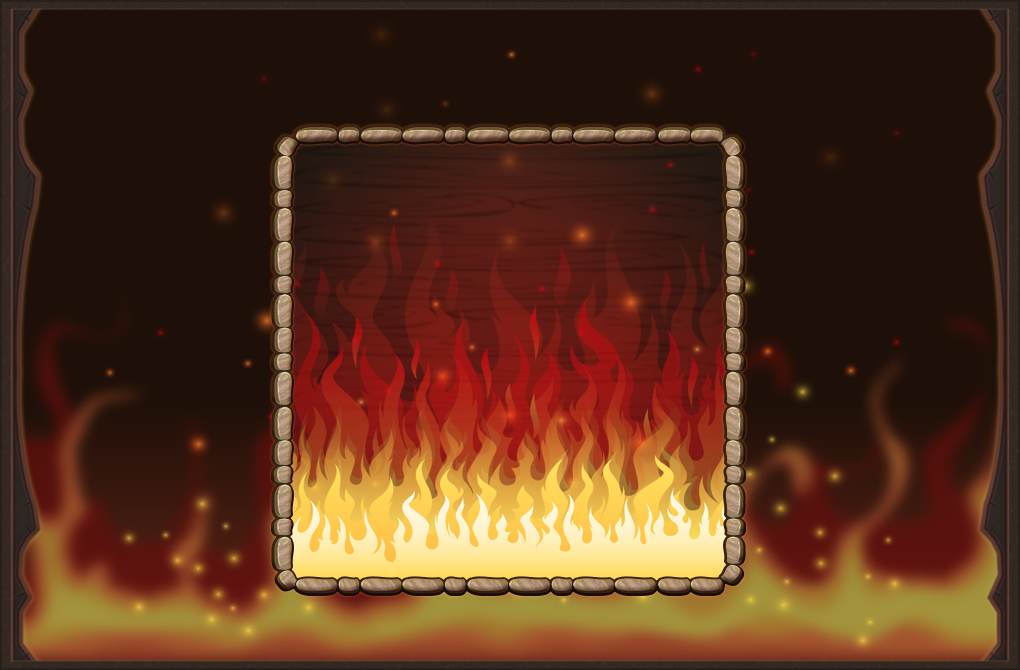
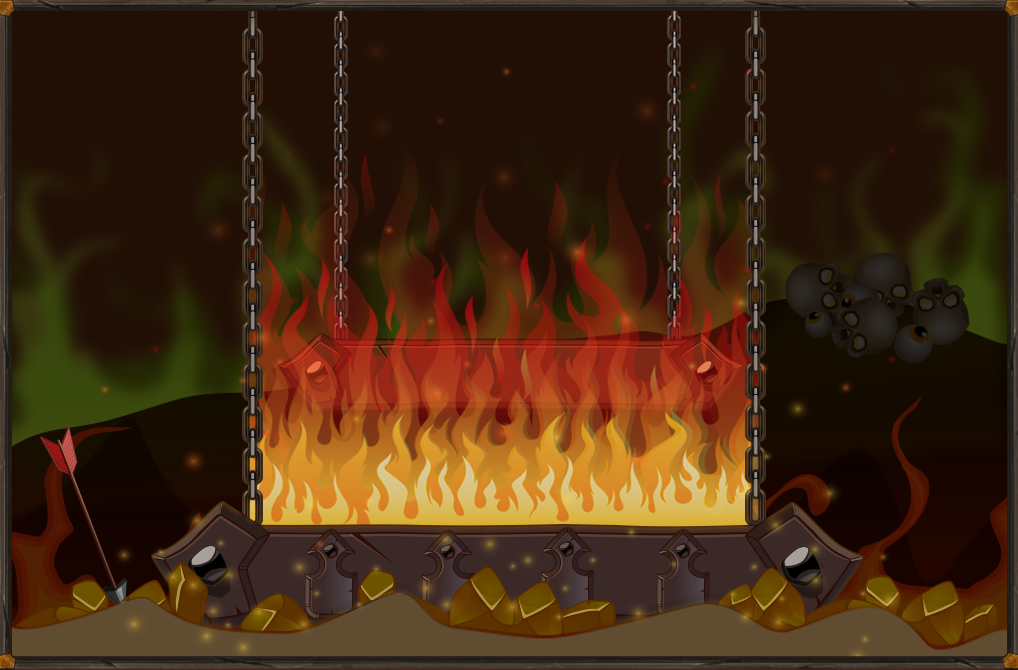
Improvements in Counter-Attack mini-game
Now match the new graphics + adding the slash when killing the ennemy

diff --git a/core/src/com/gameleonevents/namesis/CounterAttack.java b/core/src/com/gameleonevents/namesis/CounterAttack.java
@@ -41,6 +41,8 @@ public class CounterAttack extends ApplicationAdapter {
     private Texture enemyImage;
     private Sprite enemySprite;
 
+    private Sprite slashSprite;
+
     private EnemyState enemyState;
 
     //Variable used to handle the touch event
@@ -52,6 +54,7 @@ public class CounterAttack extends ApplicationAdapter {
     private double vulnerabiltyDuration;
     private double elapsedTime;
     private float countdown;
+    private boolean hasWon;
 
     //Text to give the user a feedback
     private BitmapFont font;
@@ -100,16 +103,18 @@ public class CounterAttack extends ApplicationAdapter {
 
         enemyState = EnemyState.DEFENDING;
         enemyImage = new Texture("data/monster_shield_on.png");
+        slashSprite = new Sprite(new Texture("data/slash.png"));
 
         elapsedTime = 0;
         countdown = 5;
         resultString = "";
         countdownText = "";
+        hasWon = false;
 
         //Dynamically assign the height, width, x pos and y pos of the enemy based on the screen size
         enemySpriteSize = new Double(Gdx.graphics.getWidth() * 0.4).intValue();
         enemyPosX = new Double(Gdx.graphics.getWidth() * 0.3).intValue();
-        enemyPosY = new Double(Gdx.graphics.getHeight() * 0.12).intValue();
+        enemyPosY = new Double(Gdx.graphics.getHeight() * 0.23).intValue();
 
         //Initializing sounds
         shieldHit = Gdx.audio.newSound(Gdx.files.internal("data/Sounds/hit_shield.mp3"));
@@ -144,10 +149,6 @@ public class CounterAttack extends ApplicationAdapter {
         }
 
         if(gameState == GameState.INGAME) {
-
-            //if(act.SendBeaconInfo() == "PROXIMITY_IMMEDIATE" || act.SendBeaconInfo() == "PROXIMITY_NEAR")
-            //    vulnerabiltyDuration = vulnerabiltyTimer + 1.5f;
-            //Listen for a click on the enemy sprite
             if (Gdx.input.isTouched()) {
                 touchPos.set(Gdx.input.getX(), Gdx.input.getY(), 0);
                 camera.unproject(touchPos);
@@ -204,16 +205,23 @@ public class CounterAttack extends ApplicationAdapter {
 
         batch.draw(enemySprite, enemyPosX, enemyPosY, enemySpriteSize, enemySpriteSize);
 
-        font.draw(batch, resultString, new Double(Gdx.graphics.getWidth() * 0.275).intValue(),
-                new Double(Gdx.graphics.getHeight() * 0.94).intValue());
+        if(hasWon)
+            batch.draw(slashSprite, new Double(Gdx.graphics.getWidth() * 0.4).intValue(),
+                    new Double(Gdx.graphics.getHeight() * 0.3).intValue(),
+                    new Double(Gdx.graphics.getWidth() * 0.2).intValue(),
+                    new Double(Gdx.graphics.getHeight() * 0.5).intValue());
+
+        font.draw(batch, resultString, new Double(Gdx.graphics.getWidth() * 0.26).intValue(),
+                new Double(Gdx.graphics.getHeight() * 0.14).intValue());
         font.draw(batch, countdownText, new Double(Gdx.graphics.getWidth() * 0.5).intValue(),
-                new Double(Gdx.graphics.getHeight() * 0.94).intValue());
+                new Double(Gdx.graphics.getHeight() * 0.14).intValue());
         batch.end();
     }
 
     private void NotifyWin(){
         resultString = "Vous avez vaincu votre adversaire !";
         gameState = GameState.STOPPED;
+        hasWon = true;
     }
 
     private void NotifyLoose(){

diff --git a/android/src/com/gameleonevents/namesis/AndroidLauncher.java b/android/src/com/gameleonevents/namesis/AndroidLauncher.java
@@ -14,11 +14,11 @@ public class AndroidLauncher extends AndroidApplication {
 	protected void onCreate (Bundle savedInstanceState) {
 		super.onCreate(savedInstanceState);
 		//Initialisation du Resolver
-		actionResolverAndroid = new ActionResolverAndroid(this);
+		//actionResolverAndroid = new ActionResolverAndroid(this);
         //Log.v("Test", actionResolverAndroid.toString());
 		AndroidApplicationConfiguration config = new AndroidApplicationConfiguration();
 		//initialize(new Attack(actionResolverAndroid), config);
-		initialize(new NamesisGame(actionResolverAndroid), config);
+		initialize(new CounterAttack(null/*actionResolverAndroid*/), config);
 	}
 
 }
